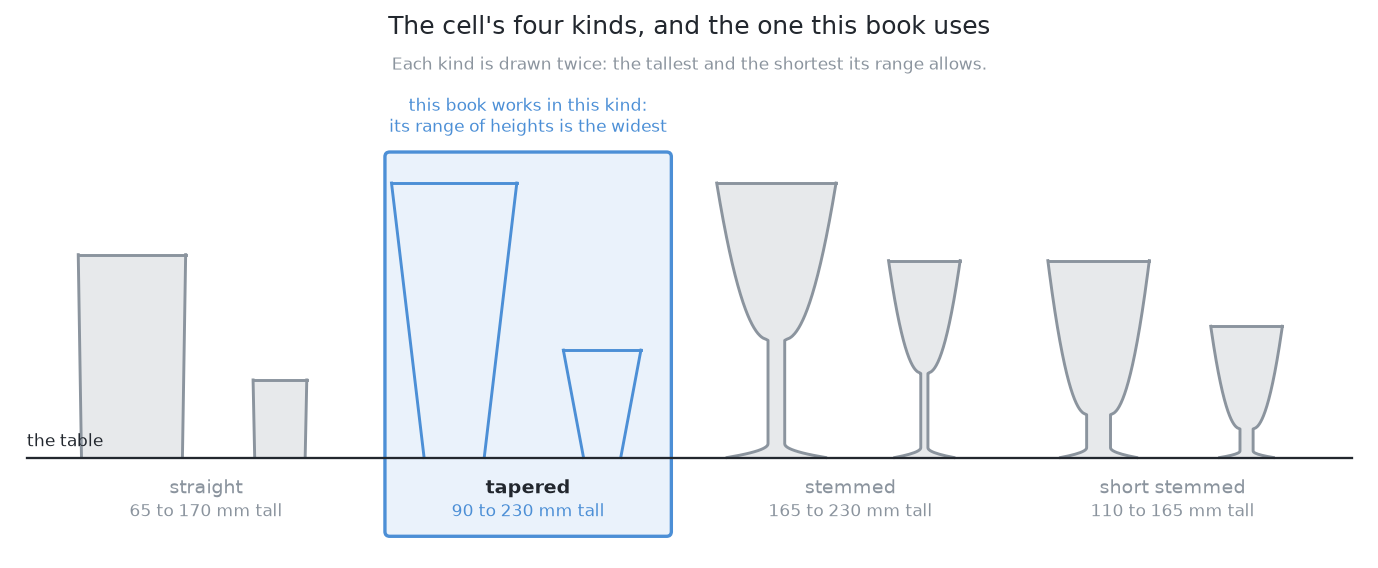
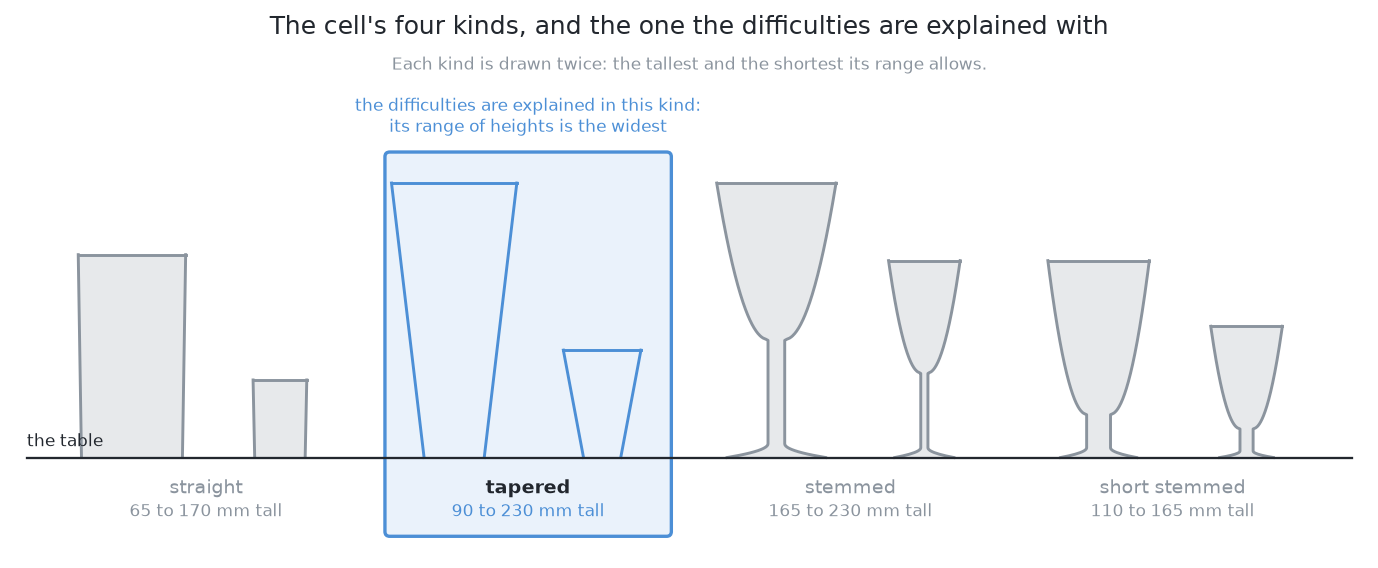
Say which kinds the scores are over, and which kind the difficulties are told in
The problem statement claimed that every worked example in this book uses the
tapered kind, and the picture beside it drew "this book works in this kind". A
reader would take the scores to be tapered results. They are not: an arrangement
holds one kind, the kind rotates, and an ordinary run of 100 glasses comes out
at 26 straight, 25 short stemmed, 25 tapered and 24 stemmed.

The claim is now what is true. The two difficulties are explained with the
tapered kind, because its range of sizes is the widest and one telling is
clearer than four, and nothing is scored on that kind by itself. The picture
says the same.

The results page says in its introduction that both runs use all four kinds and
that every number in its tables is an average over them, and section 3 opens
that average up where it hides the most: the written rule covers a tapered or
straight glass almost completely and loses an eighth of a stemmed one, while the
fine-tuned model covers all four alike. Neither fact is visible in 98.9 per cent
against 99.8. The examiner and the six-solutions overview say the same in one
line each.

The examiner's worked example draws stemmed glasses, which is what that
arrangement drew, and the page now says so rather than leaving it to look like a
contradiction.

Changed region(s): [[0.1872, 0.0299, 0.8113, 0.0599], [0.2496, 0.1796, 0.4993, 0.2095]]

diff --git a/docs/diagrams/seeing-the-glasses/make_problem_pictures.py b/docs/diagrams/seeing-the-glasses/make_problem_pictures.py
@@ -365,13 +365,13 @@ def the_kind_this_book_uses() -> None:
 
     side.text(
         (KINDS.index(picked)) * pitch, 268,
-        "this book works in this kind:\nits range of heights is the widest",
+        "the difficulties are explained in this kind:\nits range of heights is the widest",
         ha="center", va="bottom", fontsize=NOTE_SIZE, color=GLASS,
     )
     side.plot([-150, 3 * pitch + 150], [0, 0], color=INK, lw=1.1)
     side.text(-150, 6, "the table", ha="left", va="bottom", fontsize=NOTE_SIZE, color=INK)
     side.set_title(
-        "The cell's four kinds, and the one this book uses",
+        "The cell's four kinds, and the one the difficulties are explained with",
         fontsize=TITLE_SIZE, color=INK, pad=20,
     )
     side.text(

diff --git a/docs/08_seeing-the-glasses/02_the-problem/01_what-is-asked-for.md b/docs/08_seeing-the-glasses/02_the-problem/01_what-is-asked-for.md
@@ -46,18 +46,22 @@ kind.
 
 ![Four to six glasses of one kind stand upright inside the glass zone, with a guaranteed 150 mm between any two centres.](../../images/seeing-the-glasses/what-is-asked-for/four-to-six-of-one-kind.png)
 
-![The cell has four kinds of glass, drawn here side on with the range of heights each one is picked from, and the tapered kind, which every worked example in this book uses, is picked out from the other three.](../../images/seeing-the-glasses/what-is-asked-for/the-kind-this-book-uses.png)
+![The cell has four kinds of glass, drawn here side on with the range of heights each one is picked from, and the tapered kind, which the two difficulties below are explained with, is picked out from the other three.](../../images/seeing-the-glasses/what-is-asked-for/the-kind-this-book-uses.png)
 
 **The glasses stand apart.** There is a guaranteed smallest gap between any two
 centres, wide enough that even the two widest glasses of a kind leave bare table
 between their rims, so no two glasses ever touch. Separating glasses that touch
 is the job of [pushing the glasses apart](../../09_pushing-the-glasses-apart/01_the-problem/01_what-is-asked-for.md).
 
-**Every worked example in this book uses the tapered kind, because its range of
-sizes is deliberately very wide.** It runs from a small glass to one more than
-twice its height, which is the widest range of the four. That width is not
-decoration: it is what causes the first difficulty below, and a narrow range
-could not produce it at all.
+**The two difficulties below are explained with the tapered kind, to keep the
+explaining simple.** A run meets all four kinds and a score is taken over all
+four, but setting out a difficulty four times over would say the same thing
+four times, so each one is told once, in the kind that shows it most clearly.
+
+That kind is the tapered one, because its range of sizes is deliberately very
+wide: it runs from a small glass to one more than twice its height, which is the
+widest range of the four. The width is not decoration. It is what causes the
+first difficulty below, and a narrow range could not produce it at all.
 
 ![The tapered kind is drawn anywhere from 90 mm tall to 230 mm tall, which is the widest range of the four, and it is that width rather than the shape that lets one glass of the kind hide another of the same kind.](../../images/seeing-the-glasses/what-is-asked-for/the-widest-range-of-sizes.png)
 

diff --git a/docs/08_seeing-the-glasses/11_the-results.md b/docs/08_seeing-the-glasses/11_the-results.md
@@ -18,6 +18,13 @@ stations per arrangement, the same shared arithmetic turning a mask into a place
 and a width, and the same scorecard. None of the six was trained or tuned on
 these arrangements. Every number here comes from a solution's own `results.json`.
 
+**Both runs use all four kinds of glass**, not one. An arrangement holds four to
+six glasses of a single kind, and the kind changes from one arrangement to the
+next, so the 100 glasses of an ordinary run come out at roughly a quarter of
+each kind: 26 straight, 25 short stemmed, 25 tapered and 24 stemmed. Every
+number in the tables below is therefore an average over the four, which matters
+because they are not equally hard to outline. Section 3 gives the breakdown.
+
 ## Contents
 
 1. [Introduction](#1-introduction)
@@ -95,8 +102,26 @@ covered, and how much of the mask was not that glass. These are the
 measurements that separate methods when the places cannot. The first falls when
 an outline loses a thin stem; the second rises when an outline leaks onto the
 table or swallows a neighbour. Both are medians over glasses, measured in the
-picture the mask was drawn in, and each solution's README breaks them down by
-kind of glass.
+picture the mask was drawn in.
+
+**Those two numbers are the place where averaging over four kinds hides
+something**, so it is worth opening up once. The table below gives how much of
+the glass the mask covered at the middle glass, kind by kind, on the spawned
+layouts, for the written rule and for the fine-tuned model.
+
+| kind | rules on the table | the same model, fine-tuned |
+|---|---|---|
+| straight | 99.5% | 99.7% |
+| tapered | 100.0% | 99.8% |
+| short stemmed | 88.7% | 99.7% |
+| stemmed | 86.6% | 99.8% |
+
+The written rule covers the two kinds with no stem almost completely and loses
+an eighth of the two kinds with one, because what a bowl-only outline really
+misses is the foot and the sliver of stem beside it. The fitted model has no
+such gap. Neither of those facts is visible in the single figure of 98.9 per
+cent against 99.8, which is why each solution's README breaks the measurement
+down by kind.
 
 ## 4. What the comparison says
 

diff --git a/docs/08_seeing-the-glasses/03_the-examiner/02_an-example-of-the-input.md b/docs/08_seeing-the-glasses/03_the-examiner/02_an-example-of-the-input.md
@@ -43,8 +43,12 @@ against.
 
 All four glasses are **stemmed glasses**, because an arrangement holds four to
 six glasses of a single kind and the kind changes from one arrangement to the
-next. A stemmed glass in this cell may be 165 to 230 mm tall with a bowl 60 to
-100 mm across. The table below gives each glass the number the examiner's
+next. This one drew the stemmed kind, and a later arrangement draws another, so
+a run meets all four. [What is asked for](../02_the-problem/01_what-is-asked-for.md)
+explains the problem's difficulties with the tapered kind alone, because one
+telling is clearer than four, but nothing in the test is restricted to it. A
+stemmed glass in this cell may be 165 to 230 mm tall with a bowl 60 to 100 mm
+across. The table below gives each glass the number the examiner's
 answer key gives it, and that number is used in every picture that follows.
 Read across a row for how tall that glass is, how wide its bowl is, and where it
 stands on the table.

diff --git a/docs/08_seeing-the-glasses/03_the-examiner/01_the-examiner.md b/docs/08_seeing-the-glasses/03_the-examiner/01_the-examiner.md
@@ -76,6 +76,15 @@ invented for convenience.
 from one arrangement to the next so that all four kinds are met in turn. The
 glasses stand far enough apart never to touch.
 
+That rotation is why **a score is an average over all four kinds** rather than a
+result for one. An ordinary run of 20 arrangements comes out at roughly a
+quarter of each kind, and the four are not equally hard to outline, so the
+examiner reports every measurement broken down by kind as well as over all of
+them. [The results](../11_the-results.md) shows the breakdown where it matters
+most. The problem statement explains its difficulties with the tapered kind
+alone, to keep the explaining simple, but nothing is ever scored on that kind by
+itself.
+
 **There are two families of arrangement**, and the difference between them is
 only how far apart the glasses stand. Both pictures below are drawn from
 straight above, and both use the same limits, so the spacing in one can be

diff --git a/docs/08_seeing-the-glasses/04_the-six-solutions/01_how-the-six-compare.md b/docs/08_seeing-the-glasses/04_the-six-solutions/01_how-the-six-compare.md
@@ -92,6 +92,10 @@ Read the crowded column against 83 rather than against 101. No method could find
 all 101, because a glass standing wholly behind another appears in no picture at
 all, and the examiner's own perfect masks find 83 of them.
 
+Both columns are over **all four kinds of glass**, roughly a quarter each, so
+every mask figure below is an average across kinds that are not equally hard to
+outline. [The results](../11_the-results.md) opens that average up.
+
 | Solution | Spaced: 100 glasses | Crowded: 101 glasses | Why those two results |
 |---|---|---|---|
 | **1. Rules on the table** | **100 found**, masks covered 98.9% and claimed no table at all | 71 found, 10 reports covering two glasses each, masks covered 94.6% | The rule needs a strip of bare table between two glasses. The ordinary spacing guarantees one, so it finds everything; crowding withdraws the guarantee, and where the strip is gone two glasses join into one group. |
